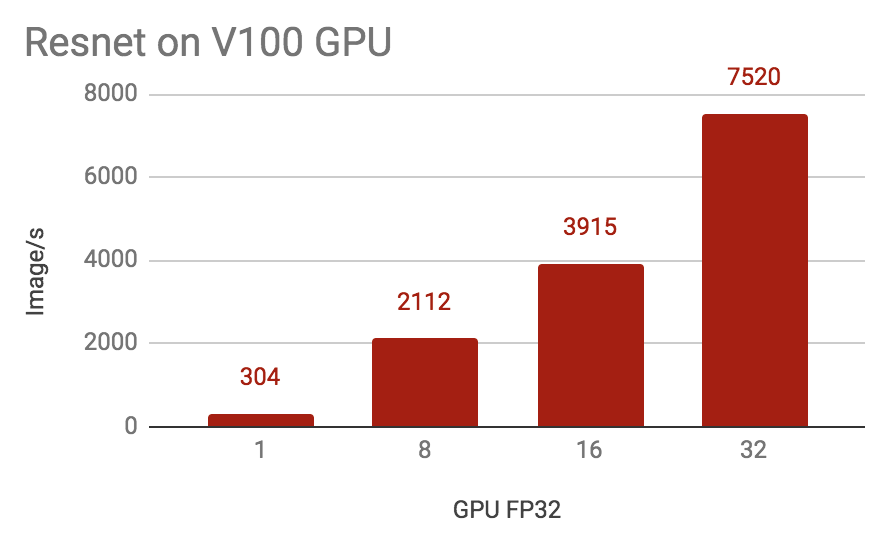
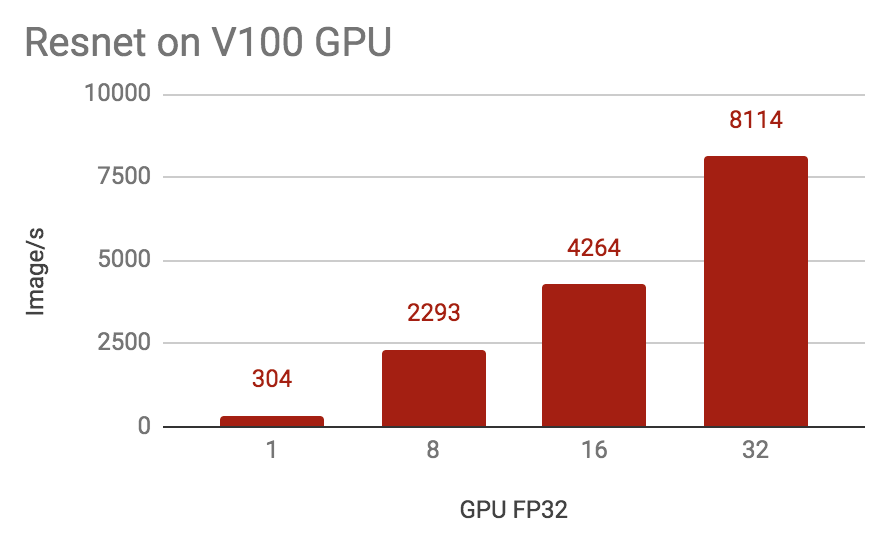
update benchmark

diff --git a/benchmark/collective/README.md b/benchmark/collective/README.md
@@ -39,3 +39,21 @@ Performance of Multiple-GPU Training of Resnet50 on Imagenet
 <img src="./img/bert_v100.png" width=400> <br />
 Performance of Multiple-GPU Training of Resnet50 on Imagenet
 </p>
+
+### 2.3 Resnet50
+
+#### Environment
+
+  - GPU: NVIDIA® Tesla® V100 (8 GPU / machine)
+  - System: Centos 6u3
+  - Cuda/Cudnn: 9.0/7.1
+  - Dataset: ImageNet
+  - Date: 2019.06
+  - PaddleVersion: 1.5
+  - Batch size: 32 / GPU
+
+#### performance
+<p align="center">
+<img src="./img/vgg16_fp32.png" width=400> <br />
+Performance of Multiple-GPU Training of Resnet50 on Imagenet
+</p>
